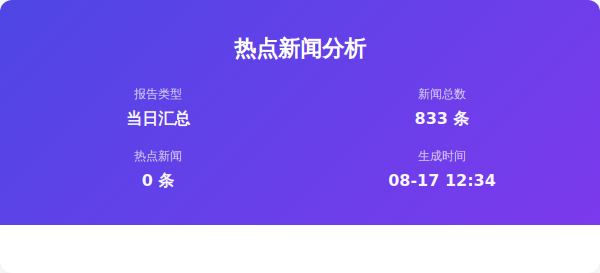
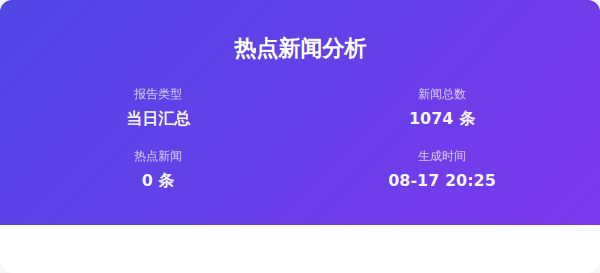
Auto update by GitHub Actions at Mon Aug 17 20:25:47 CST 2026

Changed region(s): [[0.66, 0.4103, 0.81, 0.4689], [0.72, 0.6447, 0.84, 0.674]]

diff --git a/output/2026年08月17日/html/当日汇总.html b/output/2026年08月17日/html/当日汇总.html
@@ -357,7 +357,7 @@
                     </div>
                     <div class="info-item">
                         <span class="info-label">新闻总数</span>
-                        <span class="info-value">833 条</span>
+                        <span class="info-value">1074 条</span>
                     </div>
                     <div class="info-item">
                         <span class="info-label">热点新闻</span>
@@ -365,7 +365,7 @@
                     </div>
                     <div class="info-item">
                         <span class="info-label">生成时间</span>
-                        <span class="info-value">08-17 12:34</span>
+                        <span class="info-value">08-17 20:25</span>
                     </div>
                 </div>
             </div>

diff --git a/output/2026年08月17日/html/20时25分.html b/output/2026年08月17日/html/20时25分.html
@@ -353,11 +353,11 @@
                 <div class="header-info">
                     <div class="info-item">
                         <span class="info-label">报告类型</span>
-                        <span class="info-value">当日汇总</span>
+                        <span class="info-value">实时分析</span>
                     </div>
                     <div class="info-item">
                         <span class="info-label">新闻总数</span>
-                        <span class="info-value">1074 条</span>
+                        <span class="info-value">255 条</span>
                     </div>
                     <div class="info-item">
                         <span class="info-label">热点新闻</span>
